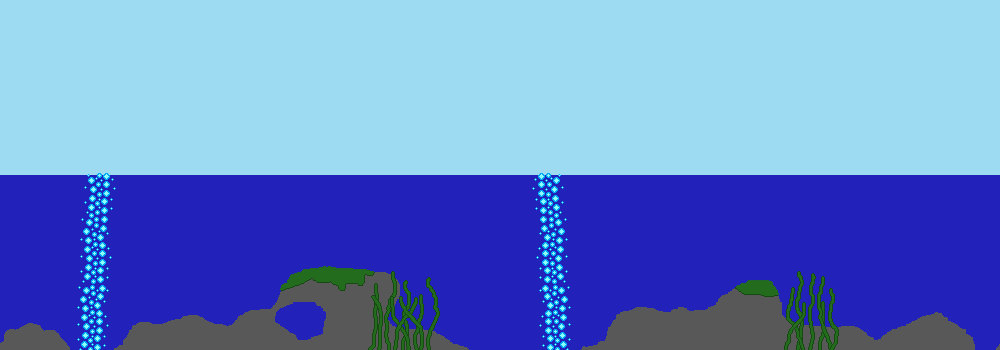
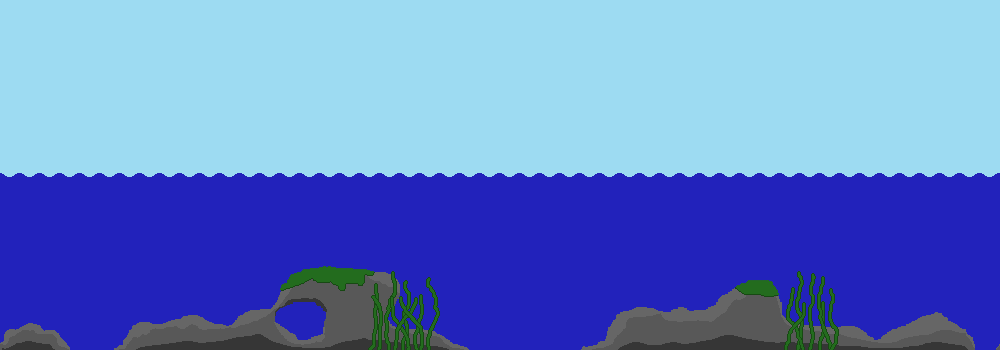
added support for high refreshrate in every stage

Changed region(s): [[0.0, 0.4857, 1.0, 1.0], [0.62, 0.9429, 0.961, 1.0], [0.279, 0.8571, 0.341, 0.8857]]

diff --git a/SBJ/SBJ_stage5.js b/SBJ/SBJ_stage5.js
@@ -24,13 +24,36 @@ function Stage5Asteroid(x, y, width, height, direction, rotationDirection, image
   this.rotationDirection = rotationDirection;
   this.rotation = 0;
   this.imageNr = imageNr;
-  this.draw = function(gD) {
-    gD.context.translate(this.x + (this.width / 2), this.y + (this.height / 2));
-    gD.context.rotate(this.rotation);
+  this.draw = function(game, gD, ghostFactor) {
+    var movementX = 0;
+    var movementY = 0;
+    var rotation = this.rotation;
+    switch (this.direction) {
+      case 0:
+        movementX = -2 * game.globalSpeed;
+        movementY = -game.globalSpeed;
+        break;
+      case 1:
+        movementY = -game.globalSpeed;
+        break;
+      case 2:
+        movementX = 2 * game.globalSpeed;
+        movementY = -game.globalSpeed;
+        break;
+      default:
+    }
+
+    if (this.rotationDirection > 0) {
+      rotation += (Math.PI / 60) * ghostFactor;
+    } else {
+      rotation -= (Math.PI / 60) * ghostFactor;
+    }
+    gD.context.translate(this.x + (movementX * ghostFactor) + (this.width / 2), this.y + (movementY * ghostFactor) + (this.height / 2));
+    gD.context.rotate(rotation);
     gD.context.drawImage(gD.spritesheet, gD.spriteDict["Asteroid" + this.imageNr][0], gD.spriteDict["Asteroid" + this.imageNr][1], gD.spriteDict["Asteroid" + this.imageNr][2], gD.spriteDict["Asteroid" + this.imageNr][3],
       -(this.width / 2), -(this.height / 2), gD.spriteDict["Asteroid" + this.imageNr][2], gD.spriteDict["Asteroid" + this.imageNr][3]);
-    gD.context.rotate(-this.rotation);
-    gD.context.translate(-(this.x + (this.width / 2)), -(this.y + (this.height / 2)));
+    gD.context.rotate(-rotation);
+    gD.context.translate(-(this.x + (movementX * ghostFactor) + (this.width / 2)), -(this.y + (movementY * ghostFactor) + (this.height / 2)));
   };
   this.newPos = function(game) {
     switch (this.direction) {
@@ -59,8 +82,8 @@ function Stage5Asteroid(x, y, width, height, direction, rotationDirection, image
 function Stage5BackgroundAsteroids(x, y) {
   this.x = x;
   this.y = y;
-  this.draw = function(stage, gD) {
-    gD.context.drawImage(stage.backgroundAsteroids, this.x, this.y);
+  this.draw = function(stage, gD, ghostFactor) {
+    gD.context.drawImage(stage.backgroundAsteroids, this.x + (stage.game.globalSpeed * ghostFactor), this.y);
   };
   this.newPos = function(game) {
     this.x += game.globalSpeed;
@@ -72,16 +95,16 @@ function addAsteroid(stage, gD) {
   for (var i = 0; i < 8; i++) {
     switch (direction) {
       case 0:
-        stage.asteroidObjects.push(new Stage5Asteroid(Math.floor(Math.random() * -((gD.canvas.width / 4) - 20)) - 20, -((i + 1) * 20), gD.spriteDict["Asteroid1"][2], gD.spriteDict["Asteroid1"][3], direction, Math.floor(Math.random() * 2), Math.floor(Math.random() * 1.4) + 1));
+        stage.asteroidObjects.push(new Stage5Asteroid(Math.floor(Math.random() * -((gD.canvas.width / 4) - 20)) - 20, -((i + 1) * 20), gD.spriteDict["Asteroid1"][2], gD.spriteDict["Asteroid1"][3], direction, Math.floor(Math.random() * 2), Math.floor(Math.random() * 2.999) + 1));
         break;
       case 1:
-        stage.asteroidObjects.push(new Stage5Asteroid(Math.floor(Math.random() * ((gD.canvas.width / 2) - 20)) + (gD.canvas.width / 4), -((i + 1) * 20), gD.spriteDict["Asteroid1"][2], gD.spriteDict["Asteroid1"][3], direction, Math.floor(Math.random() * 2), Math.floor(Math.random() * 1.4) + 1));
+        stage.asteroidObjects.push(new Stage5Asteroid(Math.floor(Math.random() * ((gD.canvas.width / 2) - 20)) + (gD.canvas.width / 4), -((i + 1) * 20), gD.spriteDict["Asteroid1"][2], gD.spriteDict["Asteroid1"][3], direction, Math.floor(Math.random() * 2), Math.floor(Math.random() * 2.999) + 1));
         break;
       case 2:
-        stage.asteroidObjects.push(new Stage5Asteroid(Math.floor(Math.random() * ((gD.canvas.width / 4) - 20)) + gD.canvas.width, -((i + 1) * 20), gD.spriteDict["Asteroid1"][2], gD.spriteDict["Asteroid1"][3], direction, Math.floor(Math.random() * 2), Math.floor(Math.random() * 1.4) + 1));
+        stage.asteroidObjects.push(new Stage5Asteroid(Math.floor(Math.random() * ((gD.canvas.width / 4) - 20)) + gD.canvas.width, -((i + 1) * 20), gD.spriteDict["Asteroid1"][2], gD.spriteDict["Asteroid1"][3], direction, Math.floor(Math.random() * 2), Math.floor(Math.random() * 2.999) + 1));
         break;
       default:
-        stage.asteroidObjects.push(new Stage5Asteroid(Math.floor(Math.random() * ((gD.canvas.width / 4) - 20)) + (gD.canvas.width / 4), -((i + 1) * 20), gD.spriteDict["Asteroid1"][2], gD.spriteDict["Asteroid1"][3], direction, Math.floor(Math.random() * 2), Math.floor(Math.random() * 1.4) + 1));
+        stage.asteroidObjects.push(new Stage5Asteroid(Math.floor(Math.random() * ((gD.canvas.width / 4) - 20)) + (gD.canvas.width / 4), -((i + 1) * 20), gD.spriteDict["Asteroid1"][2], gD.spriteDict["Asteroid1"][3], direction, Math.floor(Math.random() * 2), Math.floor(Math.random() * 2.999) + 1));
     }
   }
   stage.asteroidSpawnCounter = Math.max(Math.random() * (1000 - (stage.game.distanceTravelled - 0.005)), 600);
@@ -131,22 +154,22 @@ function updateStage5(game, stage) {
 }
 
 function drawBackgroundStage5(game, stage, ghostFactor) {
-  game.gD.context.drawImage(stage.universe, game.distanceTravelled % stage.universe.width, 0, stage.universe.width - (game.distanceTravelled % stage.universe.width), stage.universe.height, 
-    0, 0, stage.universe.width - (game.distanceTravelled % stage.universe.width), stage.universe.height);
-  game.gD.context.drawImage(stage.universe, 0, 0, game.distanceTravelled % stage.universe.width, stage.universe.height, 
-    stage.universe.width - (game.distanceTravelled % stage.universe.width), 0, game.distanceTravelled % stage.universe.width, stage.universe.height);
+  game.gD.context.drawImage(stage.universe, (game.distanceTravelled - (game.globalSpeed * ghostFactor)) % stage.universe.width, 0, stage.universe.width - ((game.distanceTravelled - (game.globalSpeed * ghostFactor)) % stage.universe.width), stage.universe.height, 
+    0, 0, stage.universe.width - ((game.distanceTravelled - (game.globalSpeed * ghostFactor)) % stage.universe.width), stage.universe.height);
+  game.gD.context.drawImage(stage.universe, 0, 0, (game.distanceTravelled - (game.globalSpeed * ghostFactor)) % stage.universe.width, stage.universe.height, 
+    stage.universe.width - ((game.distanceTravelled - (game.globalSpeed * ghostFactor)) % stage.universe.width), 0, (game.distanceTravelled - (game.globalSpeed * ghostFactor)) % stage.universe.width, stage.universe.height);
 
   for (var i = 0; i < stage.backgroundAsteroidsObjects.length; i++) {
-    stage.backgroundAsteroidsObjects[i].draw(stage, game.gD);
+    stage.backgroundAsteroidsObjects[i].draw(stage, game.gD, ghostFactor);
   }
 
   game.player.draw(game, game.gD, ghostFactor);
 
   for (var i = 0; i < stage.asteroidObjects.length; i++) {
-    stage.asteroidObjects[i].draw(game.gD);
+    stage.asteroidObjects[i].draw(game, game.gD, ghostFactor);
   }
 }
 
-function drawForegroundStage5(game, stage) {
+function drawForegroundStage5(game, stage, ghostFactor) {
 
 }

diff --git a/SBJ/SBJ_stage2.js b/SBJ/SBJ_stage2.js
@@ -19,9 +19,9 @@ function Stage2Plane(x, y, width, height, planeNr) {
   this.width = width;
   this.height = height;
   this.planeNr = planeNr;
-  this.draw = function(gD) {
+  this.draw = function(game, gD, ghostFactor) {
     gD.context.drawImage(gD.spritesheet, gD.spriteDict["Plane" + this.planeNr][0], gD.spriteDict["Plane" + this.planeNr][1], gD.spriteDict["Plane" + this.planeNr][2], gD.spriteDict["Plane" + this.planeNr][3],
-      this.x, this.y, gD.spriteDict["Plane" + this.planeNr][2], gD.spriteDict["Plane" + this.planeNr][3]);
+      this.x + (game.globalSpeed * 1.7 * ghostFactor), this.y, gD.spriteDict["Plane" + this.planeNr][2], gD.spriteDict["Plane" + this.planeNr][3]);
   };
   this.newPos = function(game) {
     this.x += game.globalSpeed * 1.7;
@@ -33,9 +33,9 @@ function Stage2Rocket(x, y, width, height) {
   this.y = y;
   this.width = width;
   this.height = height;
-  this.draw = function(gD) {
+  this.draw = function(game, gD, ghostFactor) {
     gD.context.drawImage(gD.spritesheet, gD.spriteDict["Rocket"][0], gD.spriteDict["Rocket"][1], gD.spriteDict["Rocket"][2], gD.spriteDict["Rocket"][3],
-      this.x, this.y, gD.spriteDict["Rocket"][2], gD.spriteDict["Rocket"][3])
+      this.x + (game.globalSpeed * ghostFactor), this.y - ((Math.pow(((game.gD.canvas.height - this.y) / 200) + 1, 2) + 0.1) * ghostFactor), gD.spriteDict["Rocket"][2], gD.spriteDict["Rocket"][3])
   };
   this.newPos = function(game) {
     this.x += game.globalSpeed;
@@ -95,23 +95,23 @@ function updateStage2(game, stage) {
   }
 }
 
-function drawBackgroundStage2(game, stage) {
-  game.gD.context.drawImage(stage.air, (game.distanceTravelled * 0.4) % stage.air.width, 0, stage.air.width - ((game.distanceTravelled * 0.4) % stage.air.width), stage.air.height, 
-    0, 0, stage.air.width - ((game.distanceTravelled * 0.4) % stage.air.width), stage.air.height);
-  game.gD.context.drawImage(stage.air, 0, 0, (game.distanceTravelled * 0.4) % stage.air.width, stage.air.height, 
-    stage.air.width - ((game.distanceTravelled * 0.4) % stage.air.width), 0, (game.distanceTravelled * 0.4) % stage.air.width, stage.air.height);
+function drawBackgroundStage2(game, stage, ghostFactor) {
+  game.gD.context.drawImage(stage.air, ((game.distanceTravelled * 0.4) - (game.globalSpeed * ghostFactor)) % stage.air.width, 0, stage.air.width - (((game.distanceTravelled * 0.4) - (game.globalSpeed * ghostFactor)) % stage.air.width), stage.air.height, 
+    0, 0, stage.air.width - (((game.distanceTravelled * 0.4) - (game.globalSpeed * ghostFactor)) % stage.air.width), stage.air.height);
+  game.gD.context.drawImage(stage.air, 0, 0, ((game.distanceTravelled * 0.4) - (game.globalSpeed * ghostFactor)) % stage.air.width, stage.air.height, 
+    stage.air.width - (((game.distanceTravelled * 0.4) - (game.globalSpeed * ghostFactor)) % stage.air.width), 0, ((game.distanceTravelled * 0.4) - (game.globalSpeed * ghostFactor)) % stage.air.width, stage.air.height);
 
-  game.player.draw(game, game.gD);
+  game.player.draw(game, game.gD, ghostFactor);
 
   for (var i = 0; i < stage.planeObjects.length; i++) {
-    stage.planeObjects[i].draw(game.gD);
+    stage.planeObjects[i].draw(game, game.gD, ghostFactor);
   }
 
   for (var i = 0; i < stage.rocketObjects.length; i++) {
-    stage.rocketObjects[i].draw(game.gD);
+    stage.rocketObjects[i].draw(game, game.gD, ghostFactor);
   }
 }
 
-function drawForegroundStage2(game, stage) {
+function drawForegroundStage2(game, stage, ghostFactor) {
 
 }

diff --git a/SBJ/SBJ_stage3.js b/SBJ/SBJ_stage3.js
@@ -1,6 +1,10 @@
 function Stage3(game) {
   this.game = game;
   this.deadZoneGround = 0;
+  this.ocean = new Image();
+  this.ocean.src = "img/stage3Ocean.png"
+  this.foregroundWaves = new Image();
+  this.foregroundWaves.src = "img/stage3Waves.png";
   this.floorColor = "rgba(239, 217, 165, 1)";
   this.difficulty = 60;
   this.init = function() {
@@ -299,8 +303,10 @@ function updateStage3(game, stage) {
 }
 
 function drawBackgroundStage3(game, stage, ghostFactor) {
-  game.gD.context.fillStyle = "rgba(157, 219, 242, 1)";
-  game.gD.context.fillRect(0, 0, game.gD.canvas.width, game.gD.canvas.height);
+  game.gD.context.drawImage(stage.ocean, ((game.distanceTravelled - (game.globalSpeed * ghostFactor)) % stage.ocean.width), 0, stage.ocean.width - ((game.distanceTravelled - (game.globalSpeed * ghostFactor)) % stage.ocean.width), stage.ocean.height, 
+    0, 0, stage.ocean.width - ((game.distanceTravelled - (game.globalSpeed * ghostFactor)) % stage.ocean.width), stage.ocean.height);
+  game.gD.context.drawImage(stage.ocean, 0, 0, (game.distanceTravelled - (game.globalSpeed * ghostFactor)) % stage.ocean.width, stage.ocean.height, 
+    stage.ocean.width - ((game.distanceTravelled - (game.globalSpeed * ghostFactor)) % stage.ocean.width), 0, (game.distanceTravelled - (game.globalSpeed * ghostFactor)) % stage.ocean.width, stage.ocean.height);
 
   for (var i = 0; i < stage.bubbleSpotObjects.length; i++) {
     stage.bubbleSpotObjects[i].draw(game, game.gD, ghostFactor);
@@ -319,7 +325,9 @@ function drawBackgroundStage3(game, stage, ghostFactor) {
   }
 }
 
-function drawForegroundStage3(game, stage) {
-  game.gD.context.fillStyle = "rgba(34, 34, 178, .4)";
-  game.gD.context.fillRect(0, game.gD.canvas.height / 2, game.gD.canvas.width, game.gD.canvas.height / 2);
+function drawForegroundStage3(game, stage, ghostFactor) {
+  game.gD.context.drawImage(stage.foregroundWaves, ((game.distanceTravelled - (game.globalSpeed * ghostFactor)) % stage.foregroundWaves.width), 0, stage.foregroundWaves.width - ((game.distanceTravelled - (game.globalSpeed * ghostFactor)) % stage.foregroundWaves.width), stage.foregroundWaves.height, 
+    0, game.gD.canvas.height - stage.foregroundWaves.height, stage.foregroundWaves.width - ((game.distanceTravelled - (game.globalSpeed * ghostFactor)) % stage.foregroundWaves.width), stage.foregroundWaves.height);
+  game.gD.context.drawImage(stage.foregroundWaves, 0, 0, (game.distanceTravelled - (game.globalSpeed * ghostFactor)) % stage.foregroundWaves.width, stage.foregroundWaves.height, 
+    stage.foregroundWaves.width - ((game.distanceTravelled - (game.globalSpeed * ghostFactor)) % stage.foregroundWaves.width),  game.gD.canvas.height - stage.foregroundWaves.height, (game.distanceTravelled - (game.globalSpeed * ghostFactor)) % stage.foregroundWaves.width, stage.foregroundWaves.height);
 }

diff --git a/SBJ/SBJ_stage4.js b/SBJ/SBJ_stage4.js
@@ -19,9 +19,9 @@ function Stage4Apple(x, y, width, height, untilDrop) {
   this.untilDrop = untilDrop;
   this.velocity = 0;
   this.gravity = 0.2;
-  this.draw = function(gD) {
+  this.draw = function(game, gD, ghostFactor) {
     gD.context.drawImage(gD.spritesheet, gD.spriteDict["Apple"][0], gD.spriteDict["Apple"][1], gD.spriteDict["Apple"][2], gD.spriteDict["Apple"][3],
-      this.x, this.y, gD.spriteDict["Apple"][2], gD.spriteDict["Apple"][3]);
+      this.x + (game.globalSpeed * ghostFactor), this.y + (this.velocity * ghostFactor), gD.spriteDict["Apple"][2], gD.spriteDict["Apple"][3]);
   };
   this.newPos = function(game) {
     this.x += game.globalSpeed;
@@ -62,19 +62,19 @@ function updateStage4(game, stage) {
   }
 }
 
-function drawBackgroundStage4(game, stage) {
-  game.gD.context.drawImage(stage.forest, game.distanceTravelled % stage.forest.width, 0, stage.forest.width - (game.distanceTravelled % stage.forest.width), stage.forest.height, 
-    0, 0, stage.forest.width - (game.distanceTravelled % stage.forest.width), stage.forest.height);
-  game.gD.context.drawImage(stage.forest, 0, 0, game.distanceTravelled % stage.forest.width, stage.forest.height, 
-    stage.forest.width - (game.distanceTravelled % stage.forest.width), 0, game.distanceTravelled % stage.forest.width, stage.forest.height);
+function drawBackgroundStage4(game, stage, ghostFactor) {
+  game.gD.context.drawImage(stage.forest, (game.distanceTravelled - (game.globalSpeed * ghostFactor)) % stage.forest.width, 0, stage.forest.width - ((game.distanceTravelled - (game.globalSpeed * ghostFactor)) % stage.forest.width), stage.forest.height, 
+    0, 0, stage.forest.width - ((game.distanceTravelled - (game.globalSpeed * ghostFactor)) % stage.forest.width), stage.forest.height);
+  game.gD.context.drawImage(stage.forest, 0, 0, (game.distanceTravelled - (game.globalSpeed * ghostFactor)) % stage.forest.width, stage.forest.height, 
+    stage.forest.width - ((game.distanceTravelled - (game.globalSpeed * ghostFactor)) % stage.forest.width), 0, (game.distanceTravelled - (game.globalSpeed * ghostFactor)) % stage.forest.width, stage.forest.height);
 
-  game.player.draw(game, game.gD);
+  game.player.draw(game, game.gD, ghostFactor);
 
   for (var i = 0; i < stage.appleObjects.length; i++) {
-    stage.appleObjects[i].draw(game.gD);
+    stage.appleObjects[i].draw(game, game.gD, ghostFactor);
   }
 }
 
-function drawForegroundStage4(game, stage) {
+function drawForegroundStage4(game, stage, ghostFactor) {
 
 }
